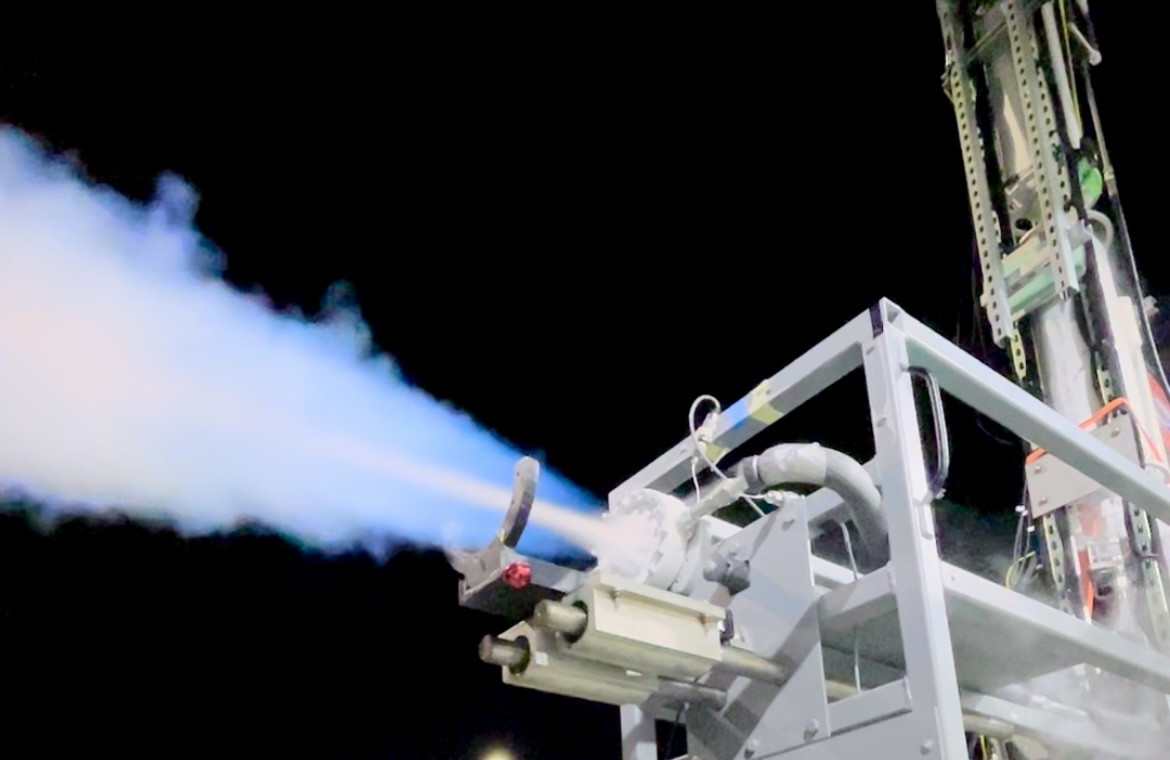
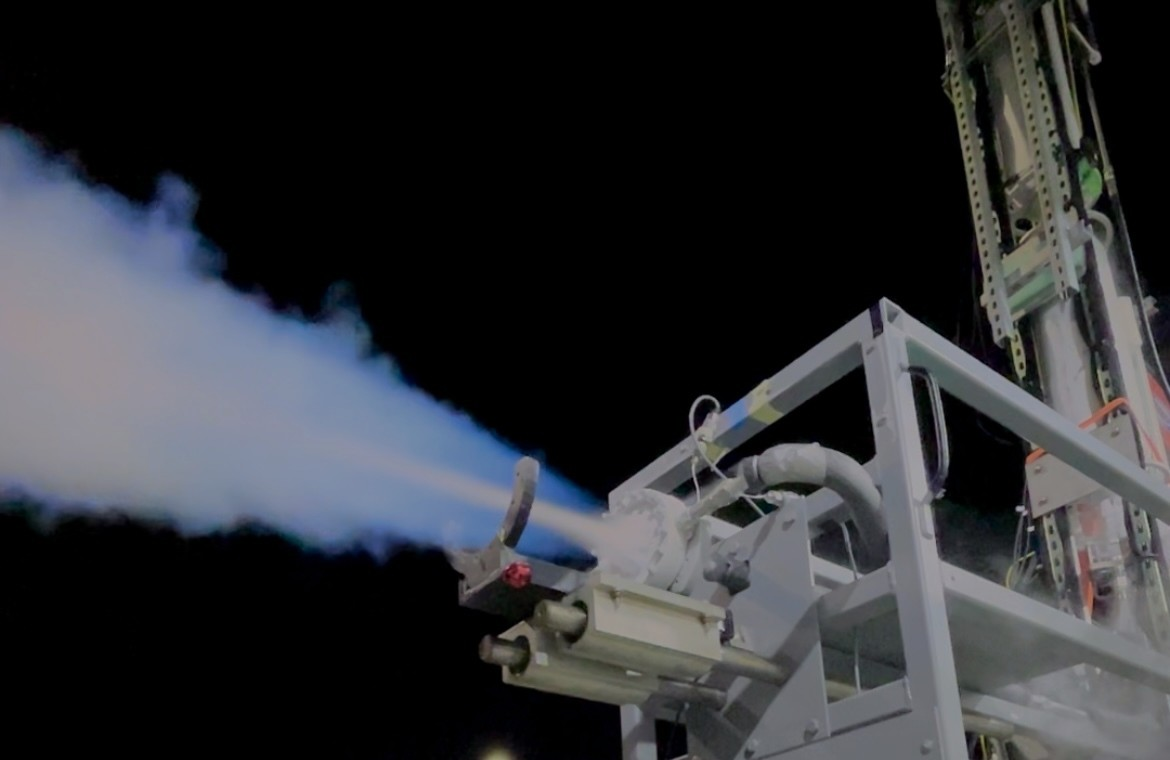
small changes

diff --git a/test_report.html b/test_report.html
@@ -27,7 +27,6 @@ tr:nth-child(even) {
   background-color: #666;
 }
 
-
 .header ul {
   list-style-type: none;
   margin: 0;
@@ -47,10 +46,6 @@ li a {
   padding: 24px 24px;
   text-decoration: none;
 }
-
-/*li a:hover:not(.active) {
-  background-color: #111;
-}*/
 
 .active {
   background-color: #3c1d73;
@@ -102,15 +97,12 @@ ul {
   list-style-type:none;
 }
 
-
-
 .pass_step {
   color: #fff;
   padding: 0px 0;
   border: 3px green;
   background-color: #22c77d;
   text-align: center;
-  /*margin: 10px 10px 10px 10px;*/
 }
 
 .pass_step:hover{
@@ -123,24 +115,22 @@ ul {
   border: 3px green;
   background-color: #c41f33;
   text-align: center;
-  /*margin: 10px 10px 10px 10px;*/
 }
 
 .fail_step:hover{
   background-color: #8c2a3a;
 }
 
-
-
-
 </style>
+
+
 </head>
 <body>
 
 <div class="header"><ul>
-  <li><a class="active" href="#home"><img src="machindustries_logo.jpg" style="height: 24px; width: 24px;"></a></li>
+  <li><a class="active" href="#home"><img src="machindustries_logo.jpg" style="height: 20px; width: 24px;"></a></li>
   <li><a><b>AUTOTEST.TESTCASE.FUNCTIONAL_TEST</b></a></li>
-  <li style="float:right"><a class="pass">PASS</a></li>
+  <li style="float:right;"><a class="pass">PASS</a></li>
 </ul></div>
 
 <h1>Automated Testcase Results</h1>
@@ -212,22 +202,22 @@ ul {
   <li><a href="#14"><div>
     <h2 class="column pass_step">14</h2>  
   </div></a></li>
-  <li><a href="#12"><div>
+  <li><a href="#15"><div>
     <h2 class="column pass_step">15</h2>  
   </div></a></li>
-  <li><a href="#13"><div>
+  <li><a href="#16"><div>
     <h2 class="column pass_step">16</h2>  
   </div></a></li>
-  <li><a href="#14"><div>
+  <li><a href="#17"><div>
     <h2 class="column pass_step">17</h2>  
   </div></a></li>
-  <li><a href="#12"><div>
+  <li><a href="#18"><div>
     <h2 class="column pass_step">18</h2>  
   </div></a></li>
-  <li><a href="#13"><div>
+  <li><a href="#19"><div>
     <h2 class="column pass_step">19</h2>  
   </div></a></li>
-  <li><a href="#14"><div>
+  <li><a href="#20"><div>
     <h2 class="column pass_step">20</h2>  
   </div></a></li>
   </div>
@@ -357,7 +347,7 @@ ul {
 
   <p><b>Description:</b> Lorem ipsum dolor sit amet, consectetur adipiscing elit. Quisque eget tellus nec leo aliquam porta. Maecenas venenatis mi sed urna aliquam viverra. Nulla ut mollis justo. Donec suscipit ante sem, ac semper justo ornare eget. Fusce at mi et dolor mattis viverra. Integer euismod leo vitae felis elementum, vel vehicula turpis posuere. Etiam pulvinar leo ut felis maximus euismod. Donec a faucibus massa, at mollis ex. Lorem ipsum dolor sit amet, consectetur adipiscing elit. Vivamus metus diam, faucibus in sollicitudin non, faucibus eu est. In congue id quam maximus tristique. Phasellus placerat diam ipsum, sit amet varius metus bibendum vitae. Proin volutpat imperdiet magna sit amet rhoncus.</p>
 
-  <iframe id="launch-plot" src="launch_plot.html" frameborder="0" width="100%" height="500" style="z-index: 9999;"></iframe>
+  <iframe id="launch-plot" src="vtf_plot.html" frameborder="0" width="100%" height="500" style="z-index: 9999;"></iframe>
 
   <table>
     <tr>
@@ -405,6 +395,11 @@ ul {
   </table>
 </div>
 
+
+<iframe scrolling="no" id="report" src="https://nchennoju.github.io/test_report.html"
+ frameborder="0" width="1000" height="90px" 
+ title="The client-side of the web">
+</iframe>
 
 </body>
 </html>

diff --git a/css/style-sky-blue.css b/css/style-sky-blue.css
@@ -101,10 +101,10 @@ a:hover {
 }
 
 .bg-image {
-  background-repeat: no-repeat;
-  background-attachment: fixed;
-  /*background-size: cover;
-  background-position: center center;*/
+  /*background-repeat: no-repeat;
+  background-attachment: fixed;*/
+  background-size: cover;
+  background-position: center center;
 }
 
 .overlay-mf {
